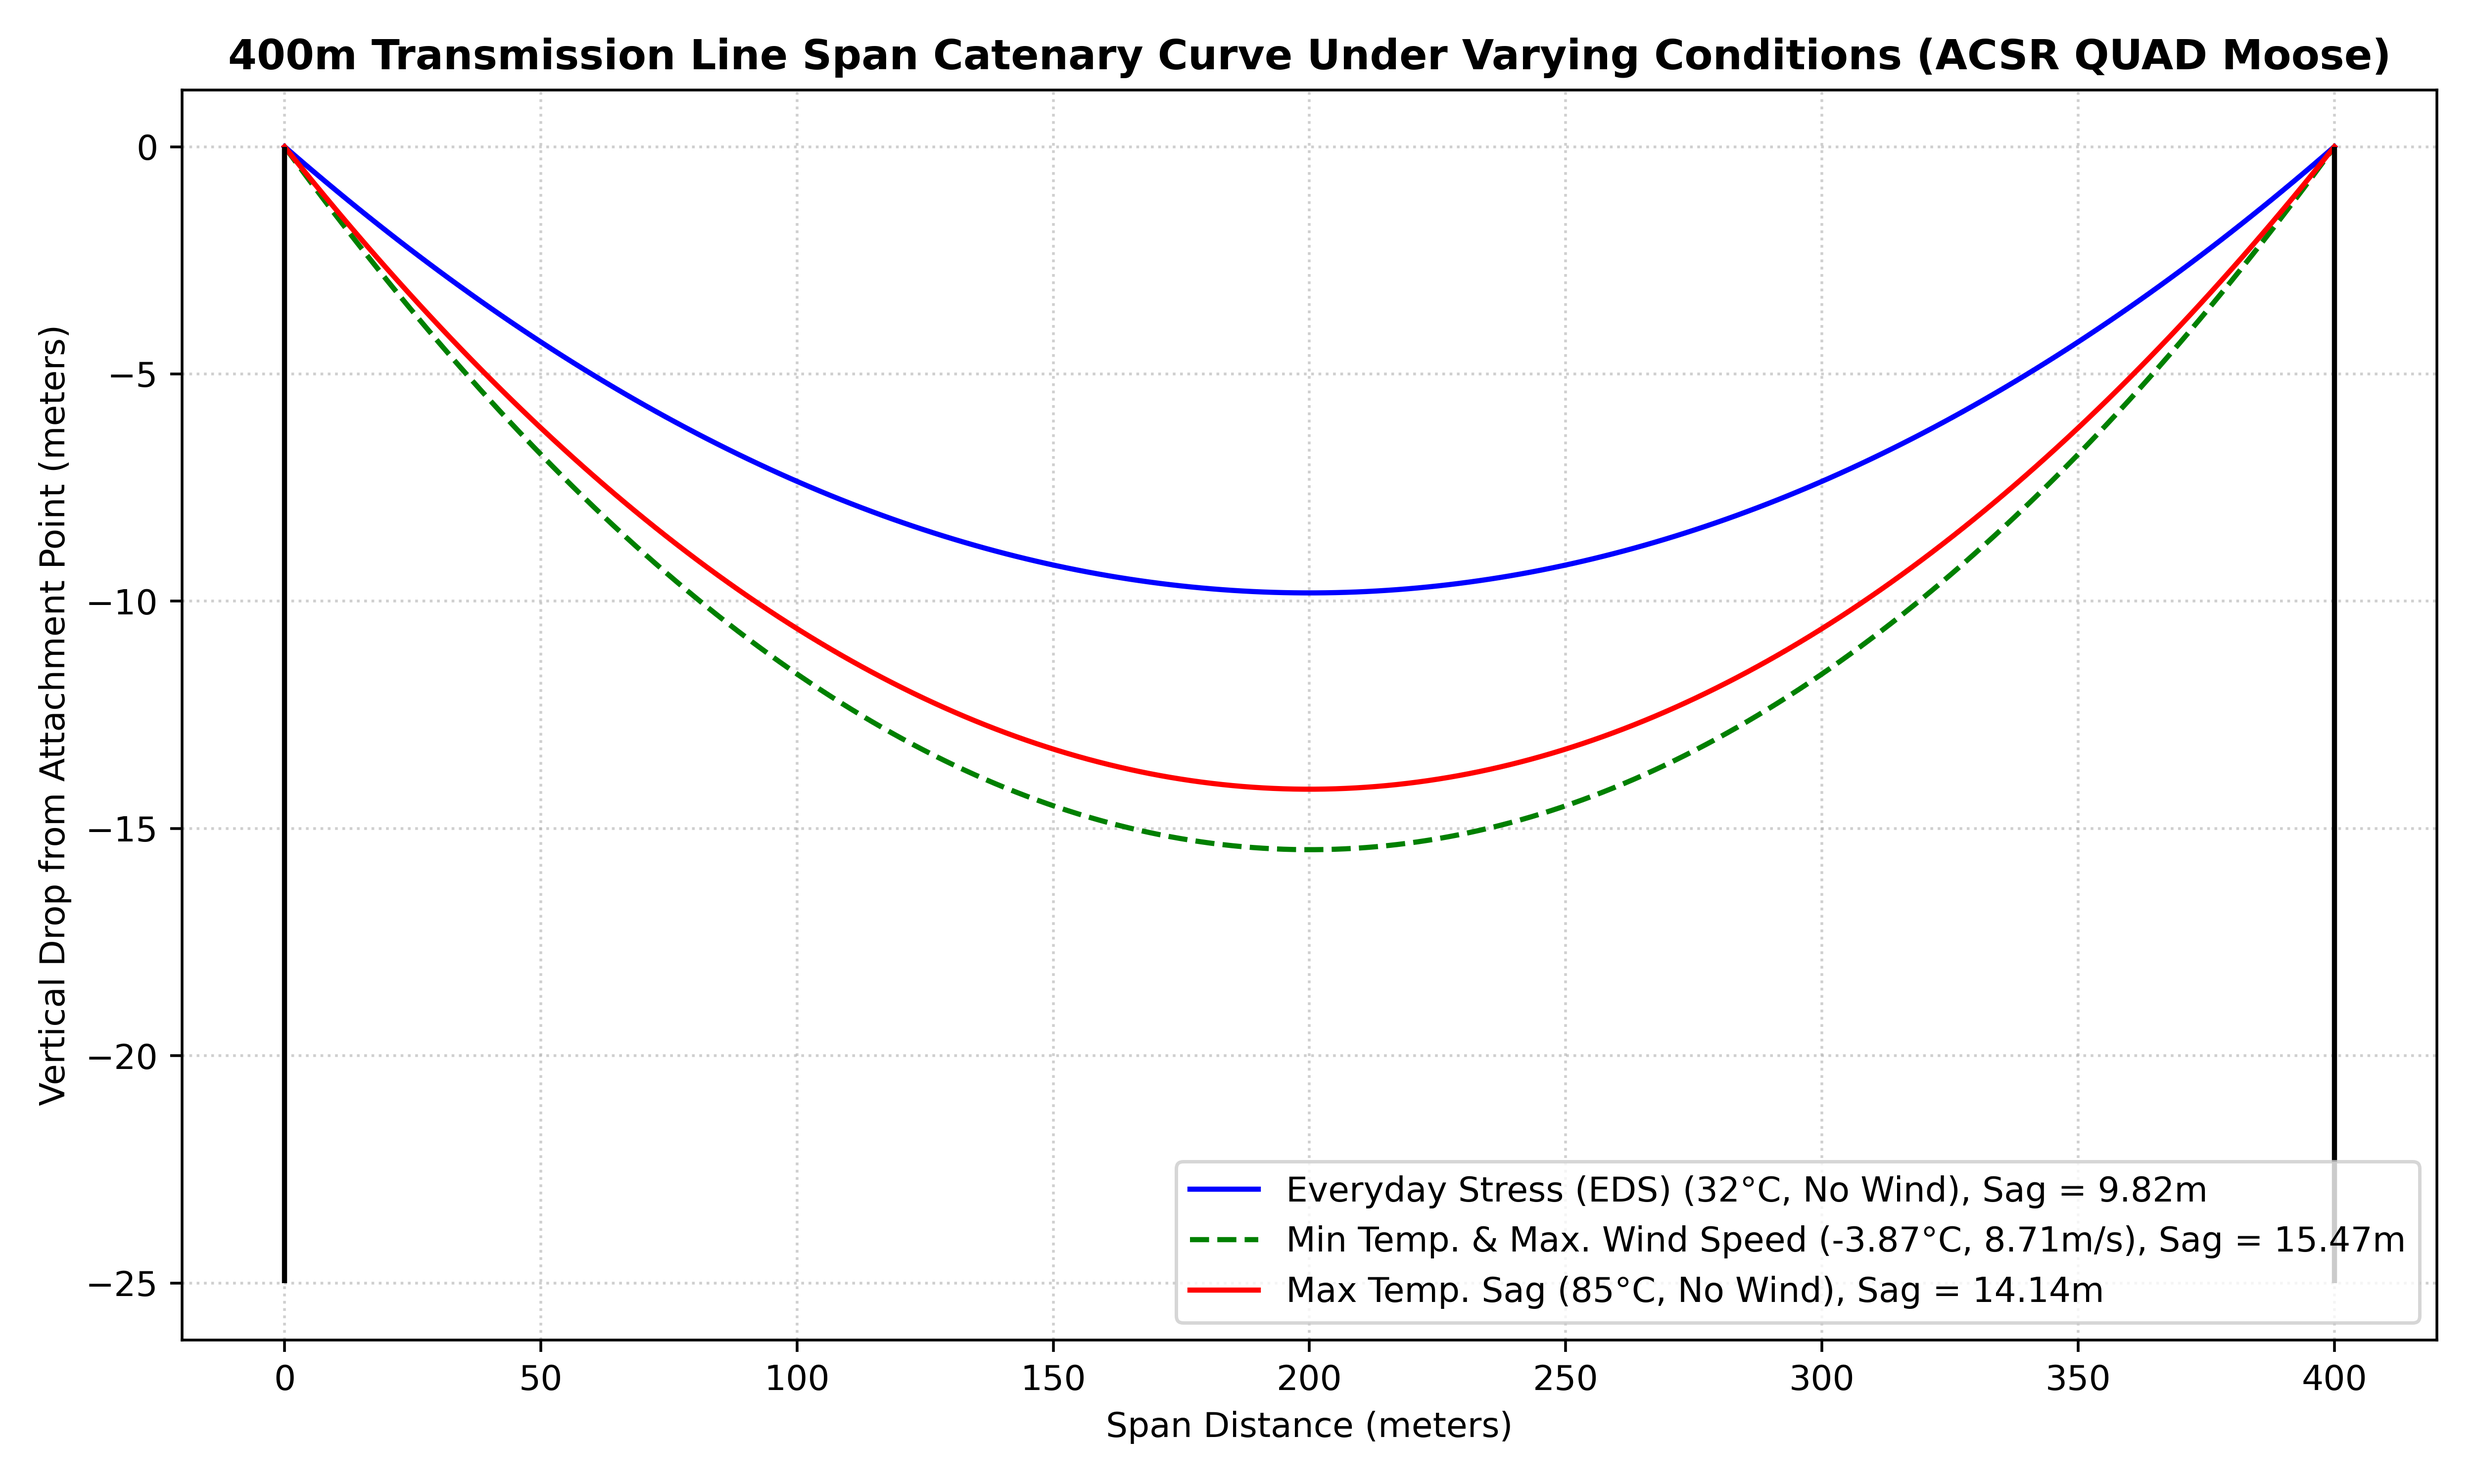
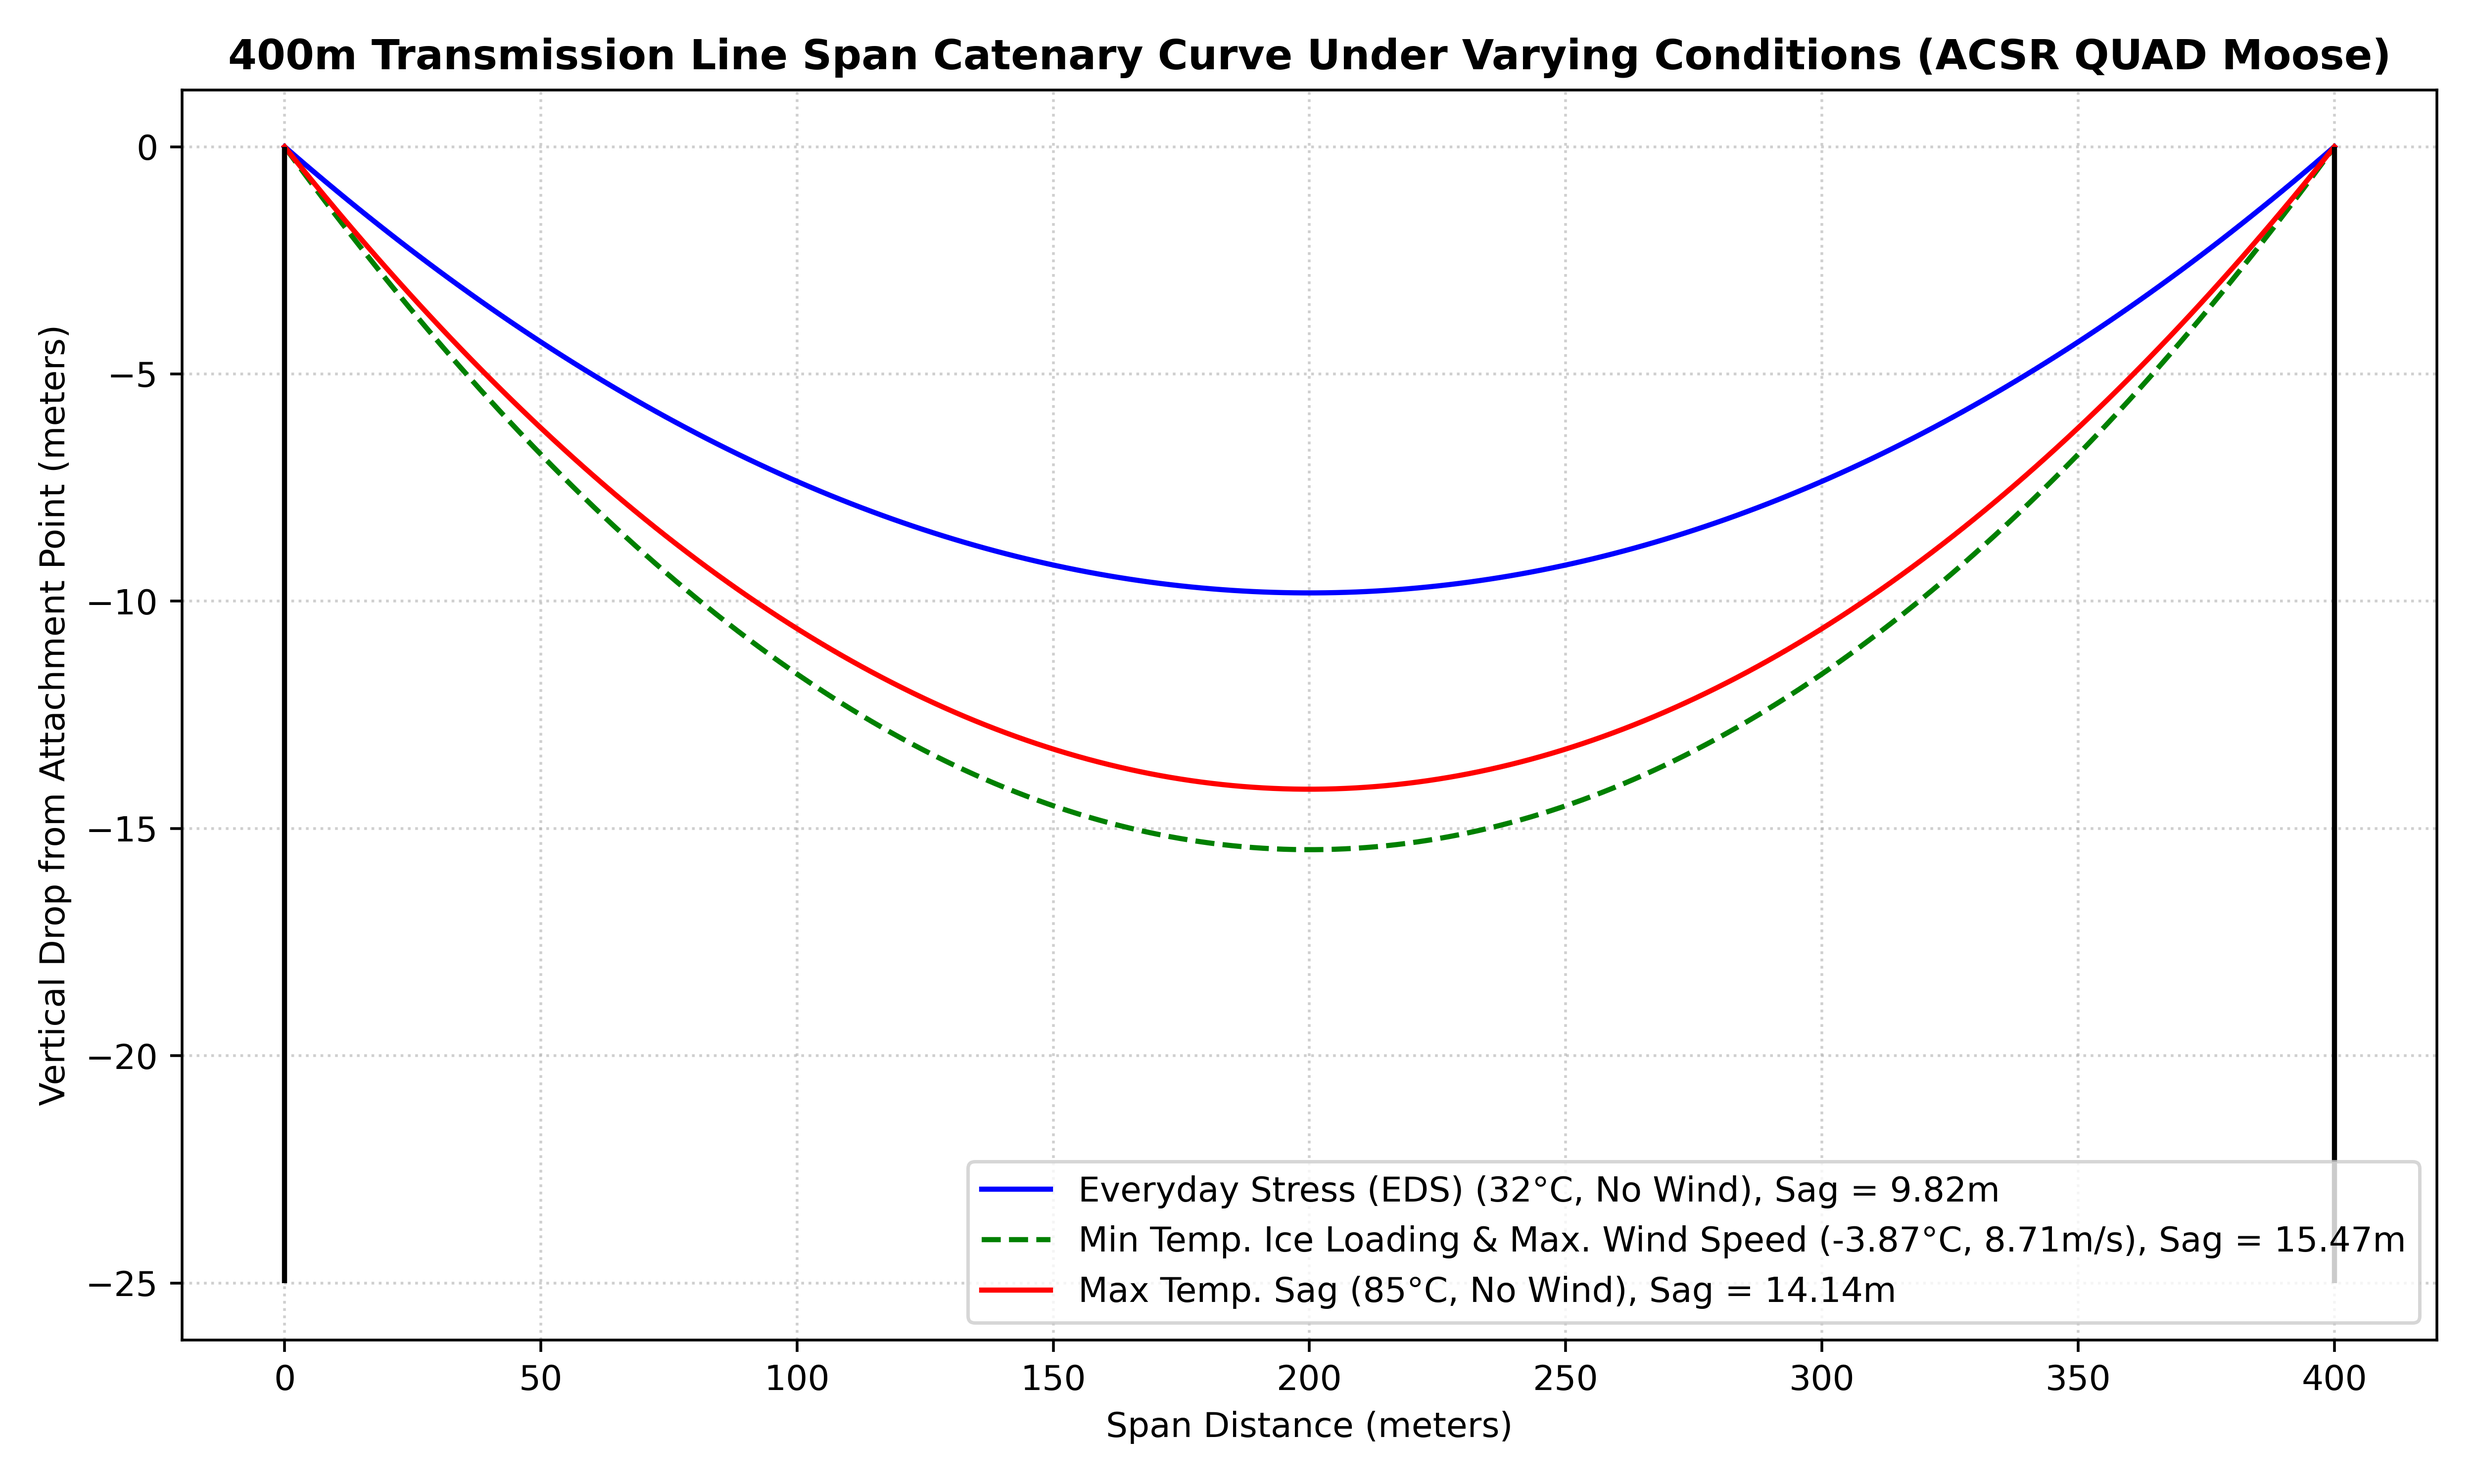
Modify catenary curve code and generate sag profile output

Changed region(s): [[0.3744, 0.775, 0.8736, 0.899]]

diff --git a/scripts/catenary_curve.py b/scripts/catenary_curve.py
@@ -145,7 +145,7 @@ def plot_profiles(y_eds, y_cold, y_hot):
     x = X
     fig, ax = plt.subplots(figsize=(10, 6))
     ax.plot(x, y_eds, 'b-', label=f'Everyday Stress (EDS) (32°C, No Wind), Sag = {-min(y_eds):.2f}m')
-    ax.plot(x, y_cold, 'g--', label=f'Min Temp. & Max. Wind Speed ({T_MIN}°C, {WS_MAX}m/s), Sag = {-min(y_cold):.2f}m')
+    ax.plot(x, y_cold, 'g--', label=f'Min Temp. Ice Loading & Max. Wind Speed ({T_MIN}°C, {WS_MAX}m/s), Sag = {-min(y_cold):.2f}m')
     ax.plot(x, y_hot, 'r-', label=f'Max Temp. Sag (85°C, No Wind), Sag = {-min(y_hot):.2f}m')
     # plt.axvline(x=0, color='black', linestyle='-')
     # plt.axvline(x=400, color='black', linestyle='-')
